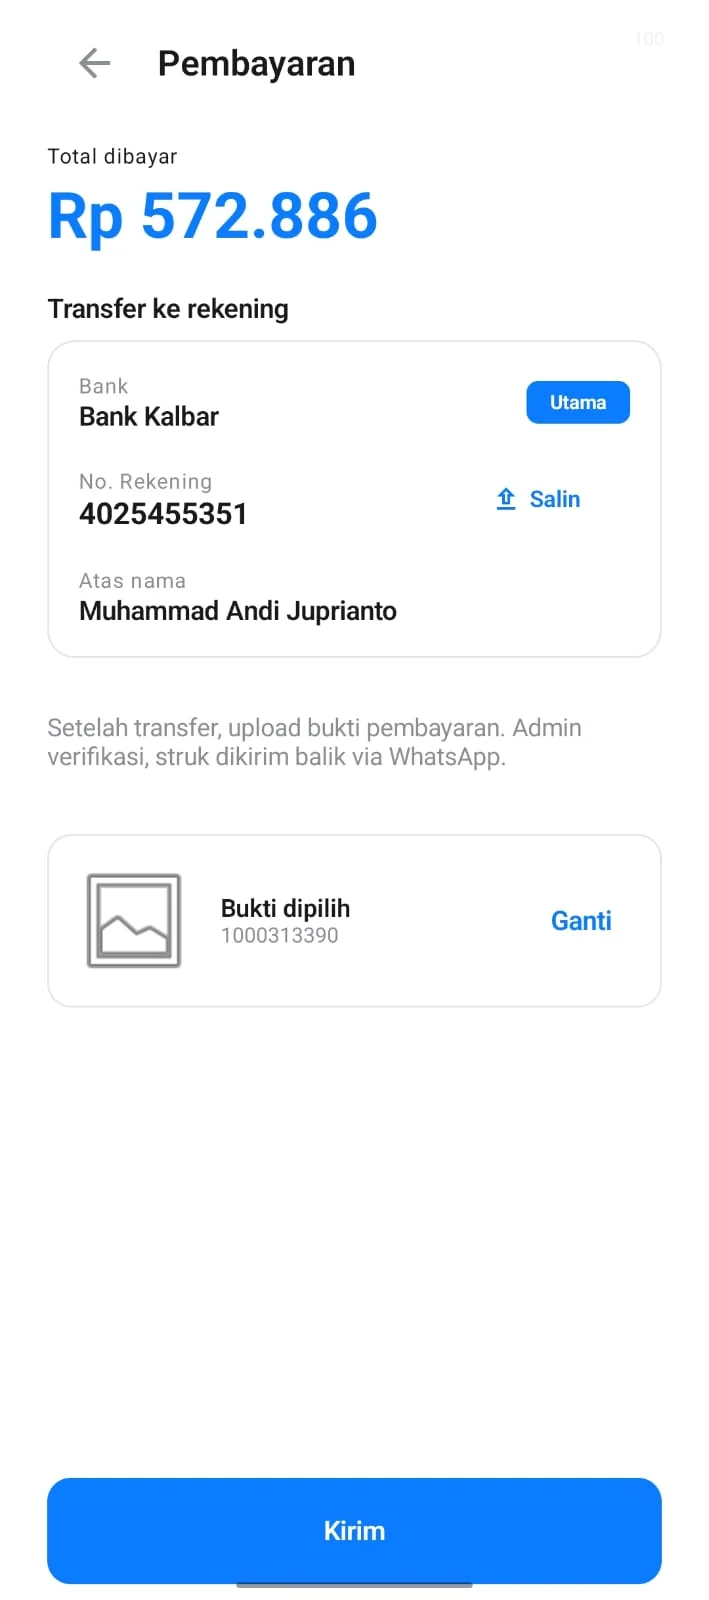
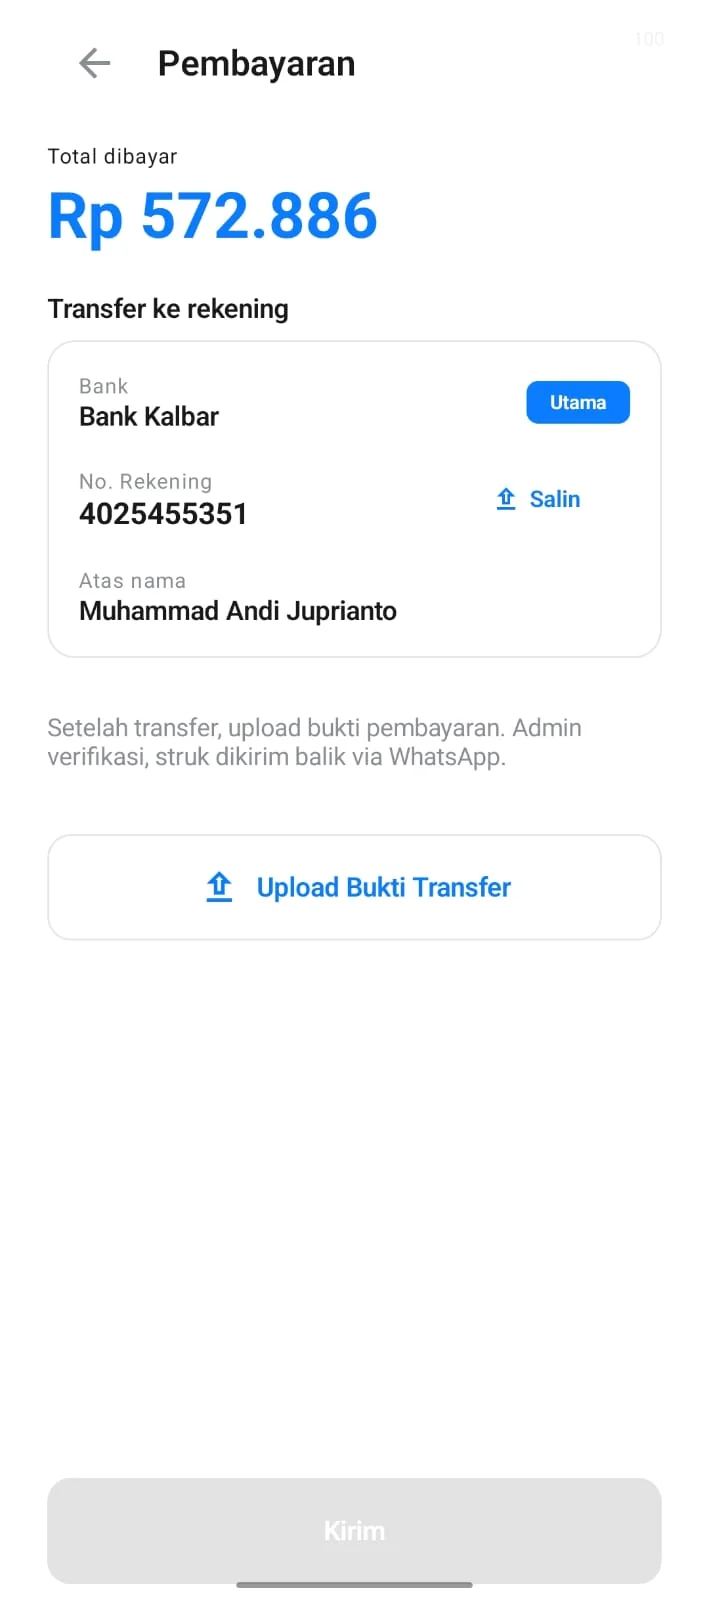
feat(produk): lima layar ZX Pajak + perbarui rincian & pembayaran

Changed region(s): [[0.0621, 0.9062, 0.9619, 1.0], [0.1241, 0.5312, 0.7137, 0.625], [0.7757, 0.5625, 0.8688, 0.5938]]

diff --git a/src/app/produk/zx-pajak/page.tsx b/src/app/produk/zx-pajak/page.tsx
@@ -200,13 +200,17 @@ export default function ZXPajakPage() {
         <section className="border-t border-gray-800 py-16">
           <div className="mx-auto mb-10 max-w-xl text-center">
             <p className="text-[11px] font-bold uppercase tracking-widest text-emerald-400">Tampilan</p>
-            <h2 className="mt-3 text-3xl font-extrabold tracking-tight">Empat layar, dari rincian sampai struk</h2>
+            <h2 className="mt-3 text-3xl font-extrabold tracking-tight">Lima layar, dari input sampai struk</h2>
             <p className="mt-3 text-sm leading-relaxed text-gray-400">
-              Total tagihan, rekening tujuan, bukti transfer, dan struk — semuanya tersimpan di HP.
+              Input plat, rincian tagihan, pembayaran, bukti terkirim, dan struk — semuanya di HP.
             </p>
           </div>
           <div className="grid gap-5 sm:grid-cols-2">
             {[
+              {
+                img: 'input', w: 709, h: 1600, t: 'Input plat',
+                d: 'Tiga kotak: KB terkunci, angka, lalu kode huruf — plus nomor WhatsApp untuk kabar status.',
+              },
               {
                 img: 'rincian', w: 709, h: 1600, t: 'Rincian tagihan',
                 d: 'Total, rincian biaya, dan detail pengiriman dalam satu layar sebelum membayar.',
